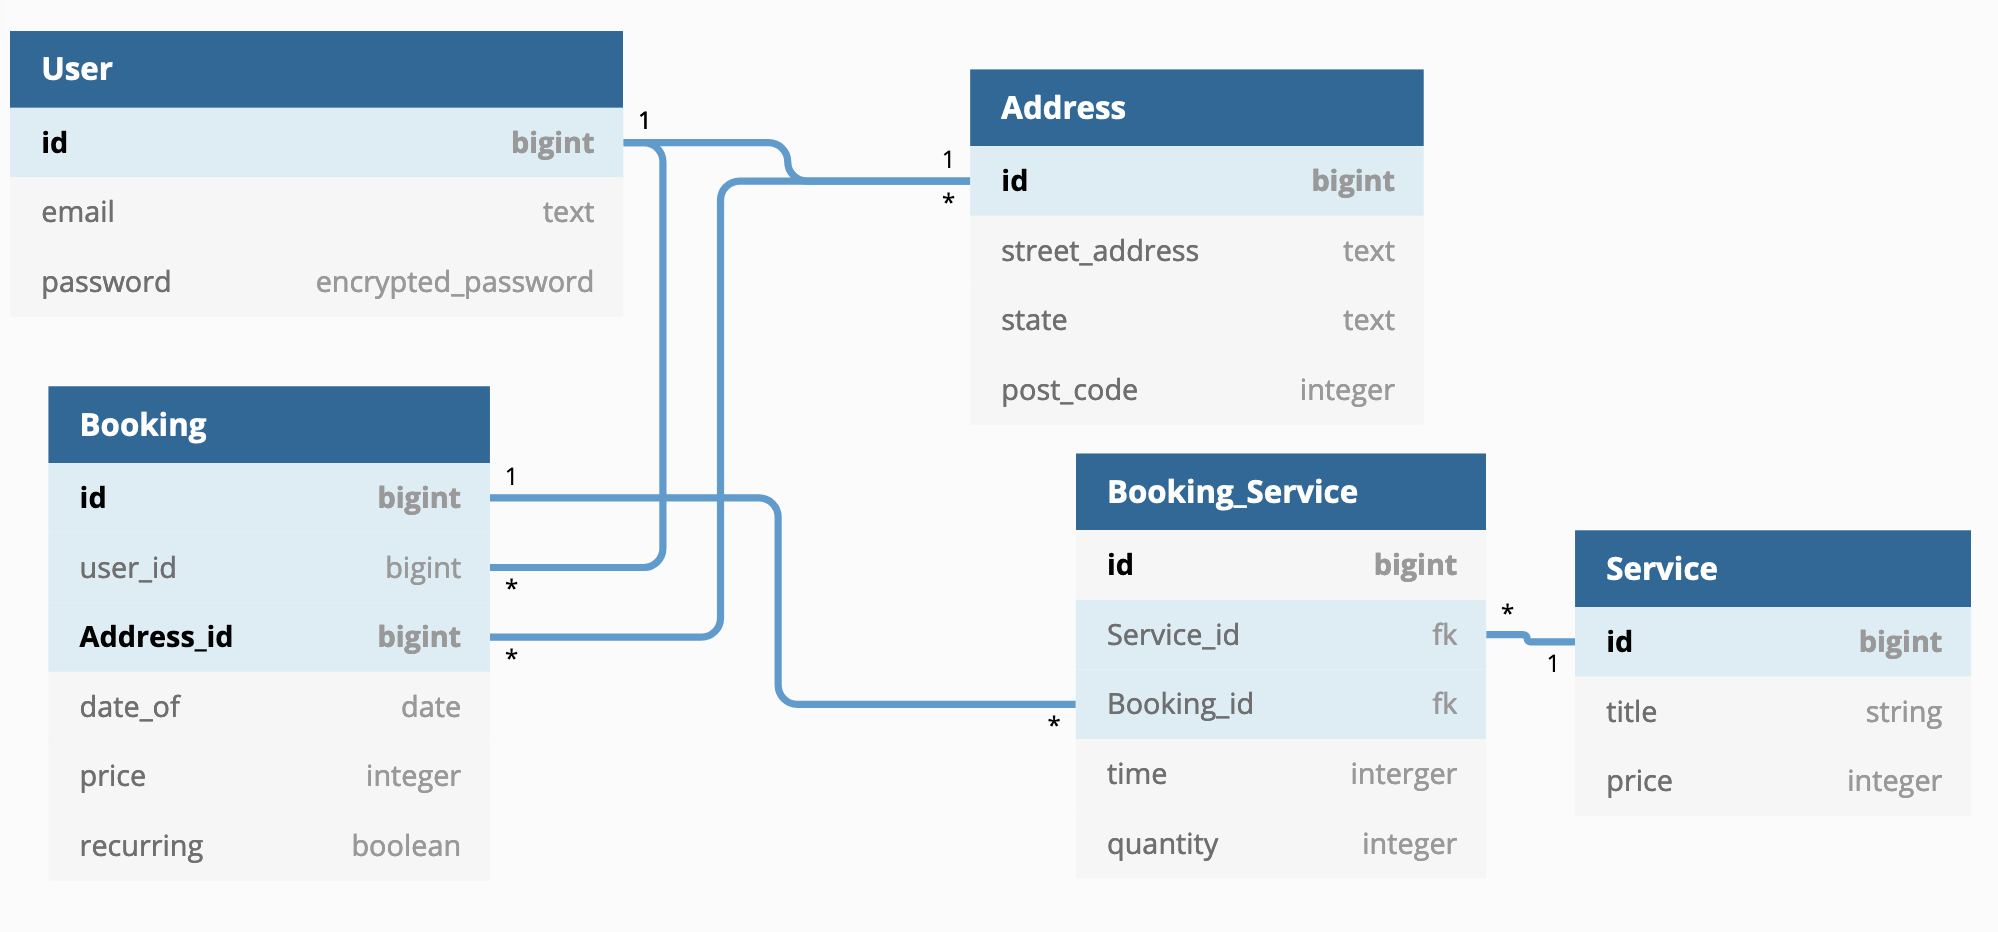
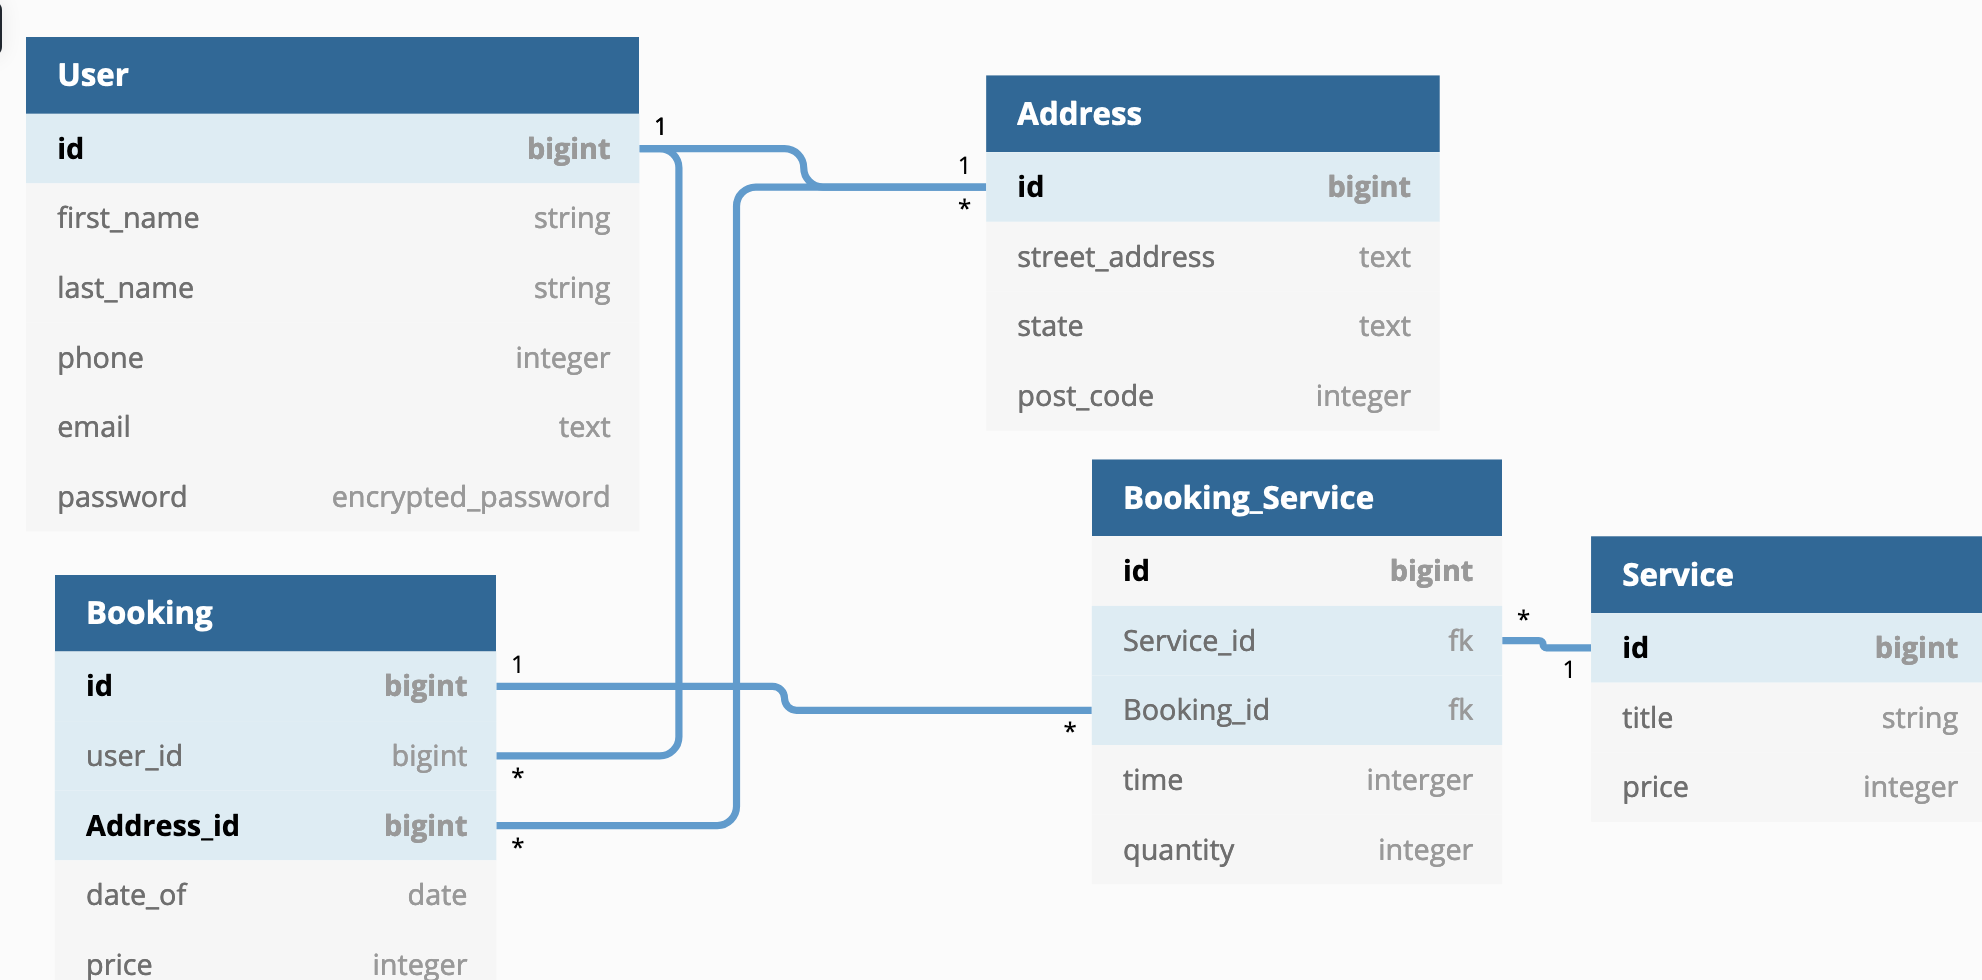
erd table user first name and last name

diff --git a/README.md b/README.md
@@ -151,7 +151,7 @@ SemanticUI
 \- React(Javascript library)
 
 \- Amazon S3 buckets
- 
+
 
 
 
@@ -418,6 +418,9 @@ Project tidy-keep {
 
 Table User {
   id bigint pk
+  first_name string
+  last_name string
+  phone integer
   email text
   password encrypted_password
 
@@ -463,6 +466,8 @@ Ref: "User"."id" < "Booking"."user_id"
 Ref: "Booking_Service"."Service_id" > "Service"."id"
 
 Ref: "Booking"."id" < "Booking_Service"."Booking_id"
+
+
 
 
 ```
